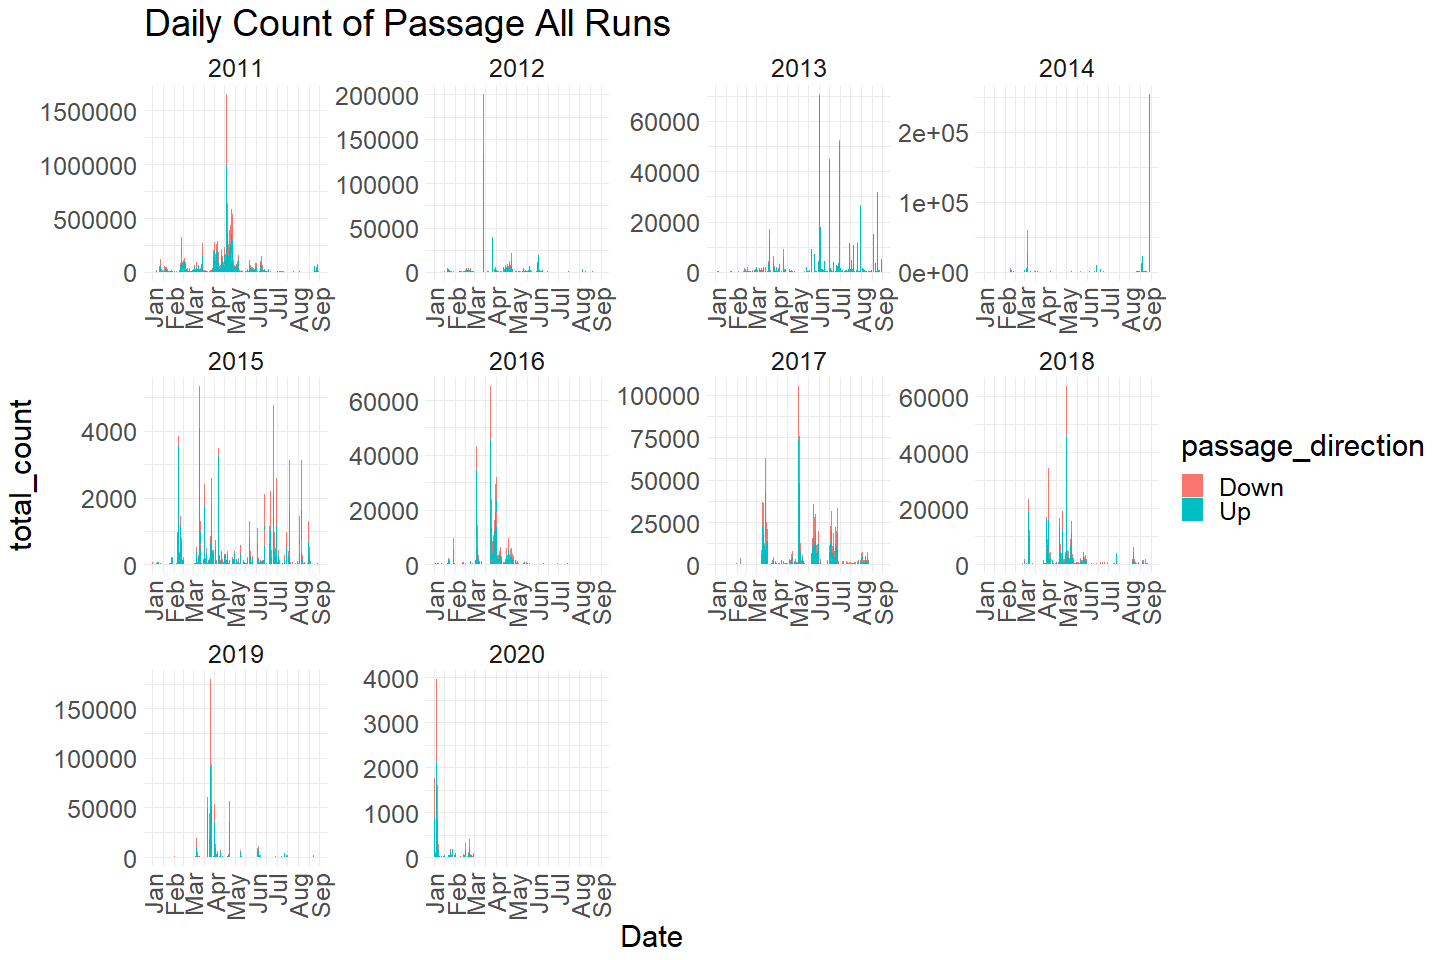
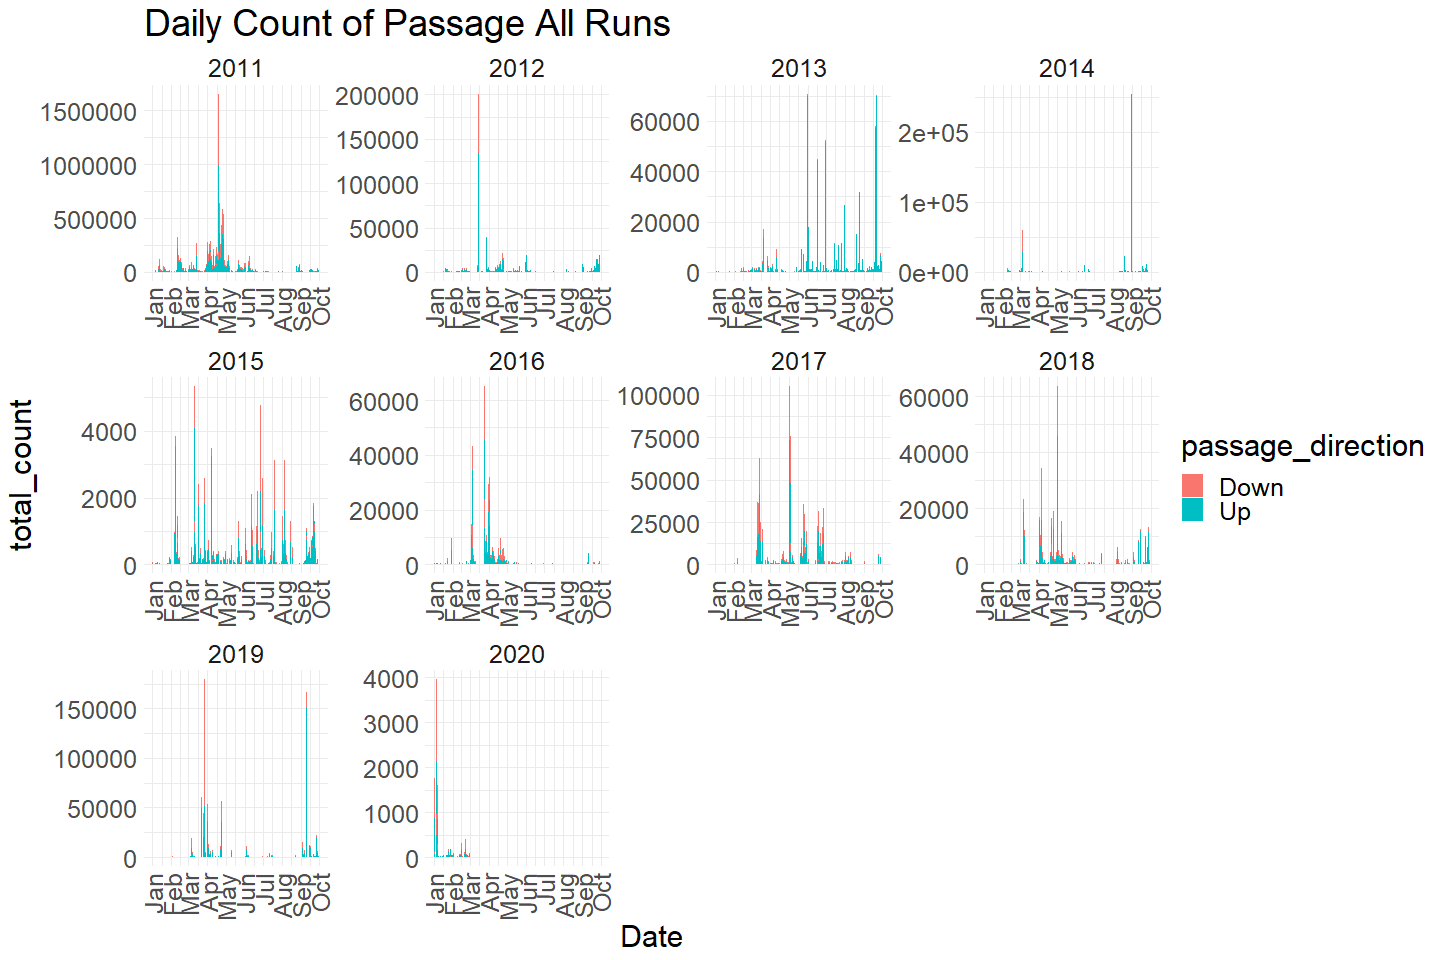
Updates metadata section on yuba upstream passage data

diff --git a/scripts/adult-upstream-passage-monitoring/yuba-river/yuba_adult_passage_data_qc.md b/scripts/adult-upstream-passage-monitoring/yuba-river/yuba_adult_passage_data_qc.md
@@ -12,11 +12,13 @@ No associated description or metadata.
 
 **Timeframe:** 2004 - 2019
 
-**Video Season:**
+**Video Season:** Appears to be January through October - we see most
+fish March - June
 
-**Completeness of Record throughout timeframe:**
+**Completeness of Record throughout timeframe:** Data from each year,
+records on hours sampled each date
 
-**Sampling Location:** Yuba River
+**Sampling Location:** Yuba River North and Sourth Fish Ladder
 
 **Data Contact:** [Mike Healey](mailto:Mike.Healey@wildlife.ca.gov)
 
@@ -133,7 +135,7 @@ cleaner_passage_data %>% filter(year(date) > 2010) %>% # show only last 10 years
   ggplot(aes(x = fake_date, y = total_count, fill = passage_direction)) + 
   geom_col() + 
   facet_wrap(~year(date), scales = "free") + 
-  scale_x_date(labels = date_format("%b"), limits = c(as.Date("1901-01-01"), as.Date("1901-09-01")), date_breaks = "1 month") + 
+  scale_x_date(labels = date_format("%b"), limits = c(as.Date("1901-01-01"), as.Date("1901-10-01")), date_breaks = "1 month") + 
   theme_minimal() + 
   theme(text = element_text(size = 23),
         axis.text.x = element_text(angle = 90, vjust = 0.5, hjust=1)) + 
@@ -564,7 +566,7 @@ cleaner_passage_data$ladder <- tolower(cleaner_passage_data$ladder)
 ## Save cleaned data back to google cloud
 
 ``` r
-cleaner_passage_data %>% glimpse()
+yuba_upstream_passage <- cleaner_passage_data %>% glimpse()
 ```
 
     ## Rows: 47,643
@@ -585,4 +587,10 @@ cleaner_passage_data %>% glimpse()
 ``` r
 # Write to google cloud 
 # Name file [watershed]_[data type].csv
+f <- function(input, output) write_csv(input, file = output)
+
+gcs_upload(yuba_upstream_passage,
+           object_function = f,
+           type = "csv",
+           name = "adult-upstream-passage-monitoring/yuba-river/data/yuba_upstream_passage")
 ```
